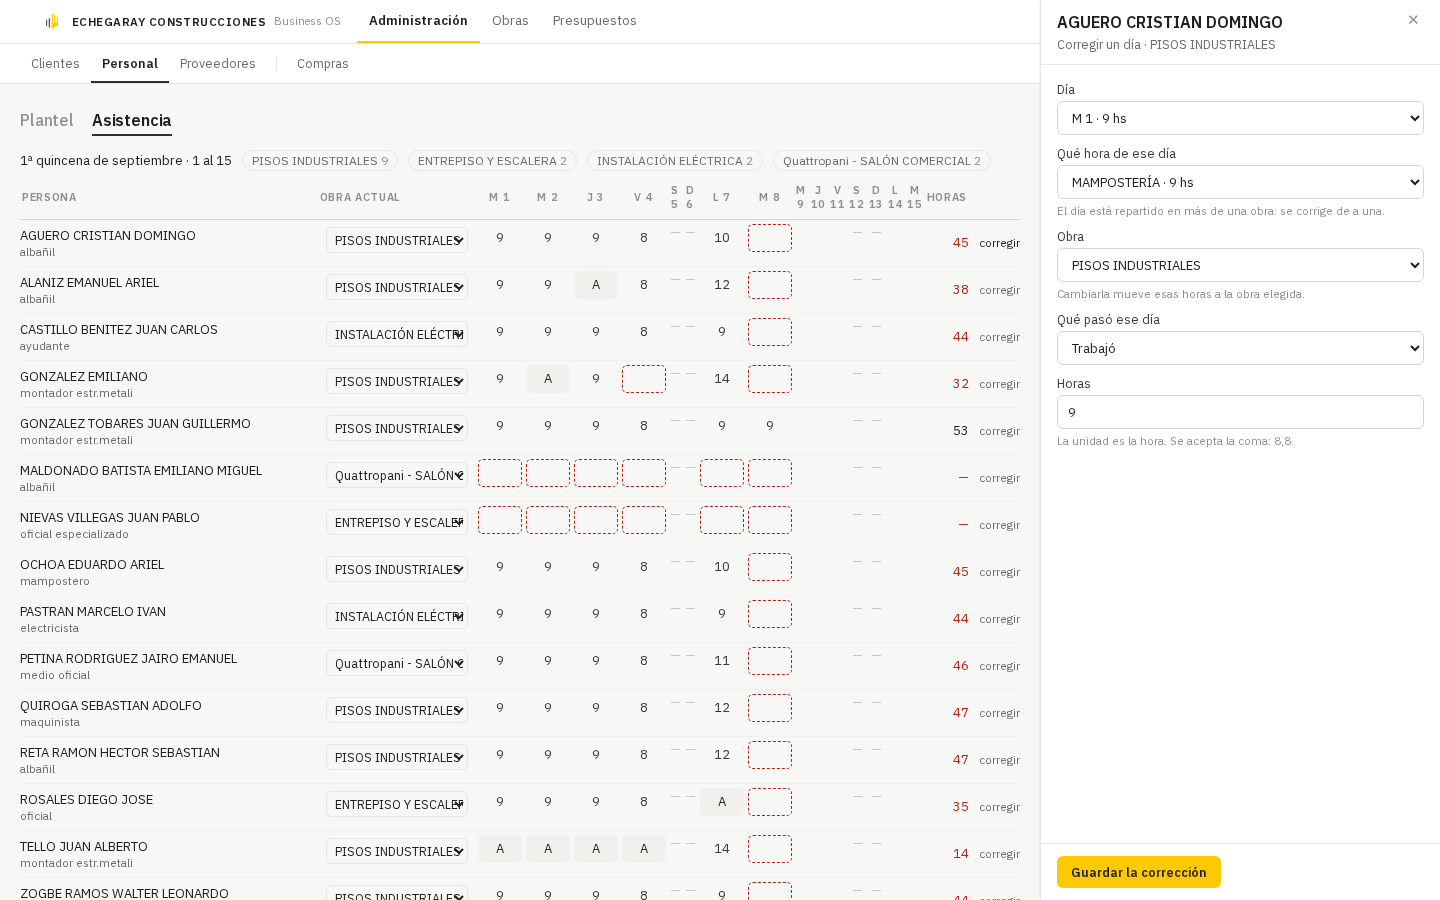
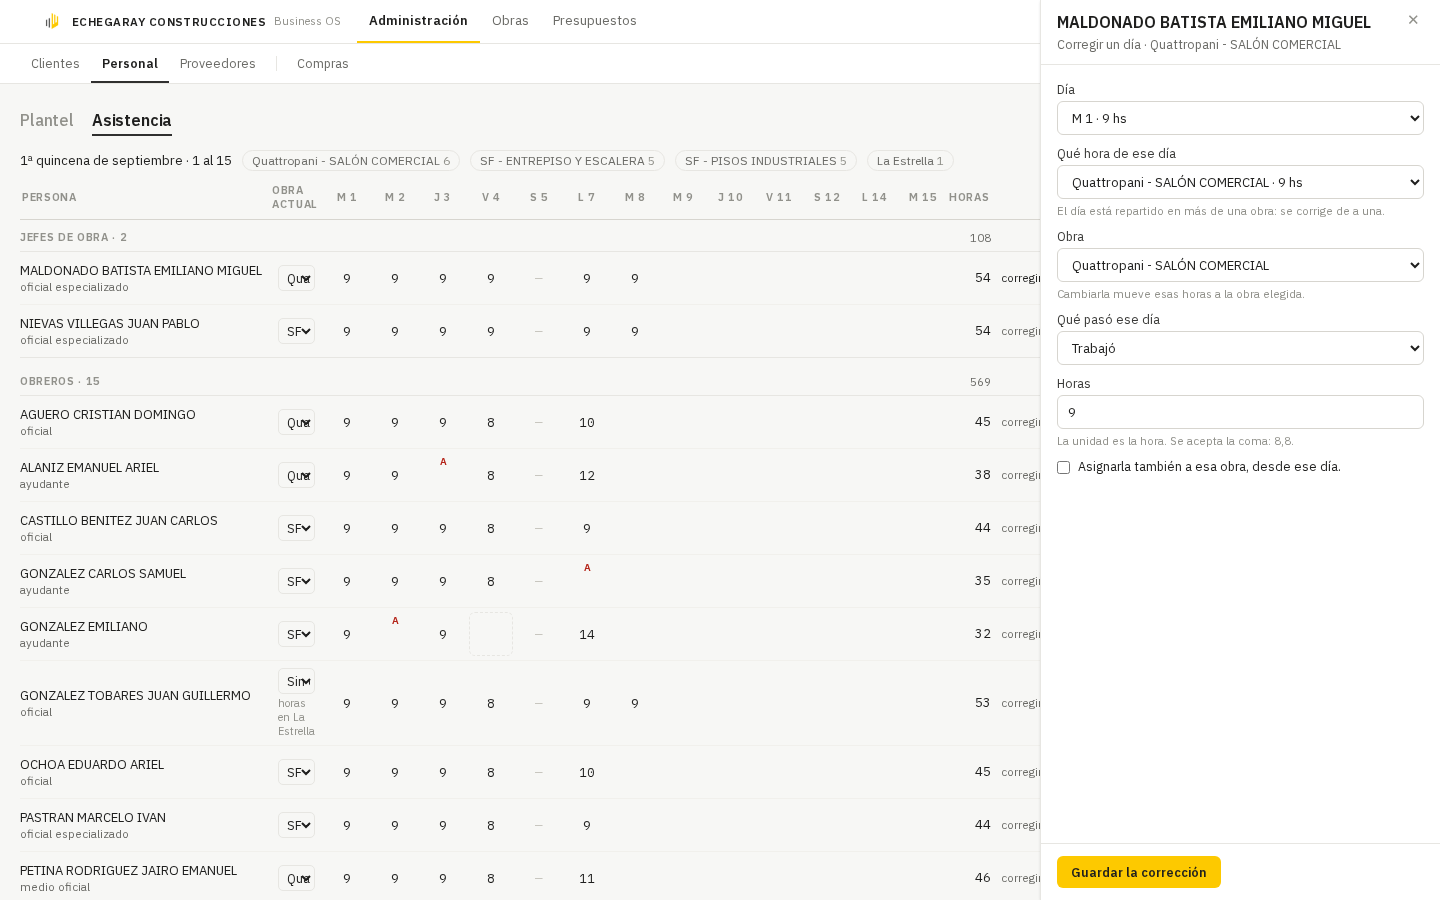
test(asistencia): la medida en el navegador de que la fila se lee en una línea — y el renglón vacío que la torcía
La captura mide lo que el ojo del dueño midió: el centro vertical del `<input>` de horas contra el
del total de su fila, el del desplegable de obra y el del bloque de la persona. Dio 7,5 px de
desvío contra el nombre y encontró un defecto que quedaba: el `<span>` de la nota se dibujaba
aunque la nota fuera `null`, ocupaba su renglón y subía el nombre por encima de sus propias horas.
Ahora sin nota no hay segundo renglón.

Además mide, en 1440 y en 2000: que ningún `total-persona` salga en rojo, que ninguna celda de HOY
lleve `data-sin-cargar`, y que la primera columna de día no arranque a mitad de pantalla (antes
x=1058 con 2000 px de ancho).

`tests/qa-shots/asistencia-grilla-1440.png` y `-2000.png` son las dos capturas. Los PNG de
`qa-shots/` que cambian son los mismos de siempre, re-tomados con el diseño corregido al correr
`_ux-celda-dia` y `asistencia-por-obra` como regresión.

Sólo lectura: los siete tests que escriben asistencia siguen detrás de `E2E_ESCRIBE_ASISTENCIA=1`
y no se corrieron.

diff --git a/echegaray-os/tests/_ux-grilla-asistencia.spec.ts b/echegaray-os/tests/_ux-grilla-asistencia.spec.ts
@@ -1,0 +1,77 @@
+import { test, expect } from '@playwright/test'
+import { entrarComo } from './util/login'
+import { ADMIN } from './util/identidades'
+
+// EL DISEÑO DE LA GRILLA DE QUINCENA, MEDIDO EN EL NAVEGADOR (dueño, 08/09/2026: «está roto el
+// diseño en la sección de asistencia»). Sólo LECTURA: no escribe una celda ni toca la base. El
+// guión bajo del nombre lo deja fuera de la suite de regresión; se corre cuando cambia la grilla.
+//
+// Lo que mide, defecto por defecto:
+//   · el número de horas en el MISMO eje vertical que el total de su fila (antes 7 px más abajo);
+//   · ningún total de persona en rojo (horas = cantidad, sin color de estado);
+//   · ninguna celda de HOY con marco punteado de «sin cargar»;
+//   · la primera columna de día no arranca a mitad de pantalla.
+
+const RUTA = '/administracion/personas?vista=asistencia'
+const ROJO = /rgb\(180, 35, 24\)/
+
+async function abrir(page: import('@playwright/test').Page, w: number, h: number) {
+  await page.setViewportSize({ width: w, height: h })
+  await entrarComo(page, ADMIN.email, ADMIN.password)
+  await page.goto(RUTA)
+  await expect(page.getByTestId('grilla-asistencia')).toBeVisible({ timeout: 30000 })
+}
+
+/** El centro vertical de un elemento. Comparar centros y no bordes: los altos son distintos. */
+const centro = (c: { y: number; height: number } | null) => (c ? c.y + c.height / 2 : NaN)
+
+for (const [ancho, alto] of [[1440, 900], [2000, 1250]] as const) {
+  test(`la grilla en ${ancho}: número, total y «corregir» en la misma línea, y los días cerca del nombre`, async ({ page }) => {
+    await abrir(page, ancho, alto)
+
+    // ── 1 · EL NÚMERO ESTÁ EN EL EJE DE SU FILA ──────────────────────────────
+    const fila = page.getByTestId('fila-quincena').filter({ has: page.getByTestId('celda-hora') }).first()
+    const input = fila.getByTestId('celda-hora').first()
+    const total = fila.getByTestId('total-persona')
+    const desvio = Math.abs(centro(await input.boundingBox()) - centro(await total.boundingBox()))
+    expect(desvio, 'el número de horas y el total de la fila comparten eje vertical').toBeLessThan(3)
+
+    // LA COLUMNA PERSONA SON DOS RENGLONES (nombre y nota) y lo que se centra es el BLOQUE, no
+    // cada línea: se mide su eje, que es lo que el ojo lee como «la fila».
+    const nombre = await fila.getByTestId('link-ficha-persona').boundingBox()
+    const nota = await fila.getByTestId('nota-persona').count()
+      ? await fila.getByTestId('nota-persona').boundingBox()
+      : null
+    const ejePersona = nota ? (nombre!.y + nota.y + nota.height) / 2 : centro(nombre)
+    expect(Math.abs(centro(await input.boundingBox()) - ejePersona),
+      'el número y el bloque de la persona comparten eje vertical').toBeLessThan(3)
+
+    // El desplegable de obra, en el mismo eje que el número que le pertenece.
+    const select = fila.getByTestId('select-obra-actual')
+    if (await select.count()) {
+      expect(Math.abs(centro(await input.boundingBox()) - centro(await select.boundingBox())),
+        'el desplegable de obra y el número comparten eje vertical').toBeLessThan(3)
+    }
+
+    // ── 2 · NINGÚN TOTAL DE PERSONA EN ROJO ──────────────────────────────────
+    for (const t of await page.getByTestId('total-persona').all()) {
+      const color = await t.evaluate((el) => getComputedStyle(el).color)
+      expect(color, 'las horas son una cantidad: nunca llevan el rojo de un problema').not.toMatch(ROJO)
+    }
+
+    // ── 3 · HOY NO SE RECLAMA ────────────────────────────────────────────────
+    // La columna del día en curso salía entera en cajitas punteadas a las 14:52.
+    const hoy = new Date().toISOString().slice(0, 10)
+    const deHoy = page.locator(`[aria-label$="${hoy}"][data-testid="celda-hora"]`)
+    for (const c of await deHoy.all()) {
+      const celda = c.locator('xpath=ancestor::span[@data-testid="celda-dia" or @data-testid="celda-fija"][1]')
+      await expect(celda, 'hoy no lleva el marco punteado de «sin cargar»').not.toHaveAttribute('data-sin-cargar', 'si')
+    }
+
+    // ── 4 · LOS DÍAS EMPIEZAN CERCA DEL NOMBRE ───────────────────────────────
+    const primerDia = await fila.getByTestId('celda-hora').first().boundingBox()
+    expect(primerDia!.x, 'la quincena no puede arrancar a mitad de pantalla').toBeLessThan(640)
+
+    await page.screenshot({ path: `tests/qa-shots/asistencia-grilla-${ancho}.png`, fullPage: false })
+  })
+}

diff --git a/echegaray-os/src/features/administracion/components/GrillaAsistenciaObra.tsx b/echegaray-os/src/features/administracion/components/GrillaAsistenciaObra.tsx
@@ -328,13 +328,18 @@ export function GrillaAsistenciaObra({
                   }}>
                   {fila.persona.nombre}
                 </Link>
-                <span title={fila.persona.nota ?? undefined} style={{
-                  display: 'block', fontSize: '11.5px', color: V.apagado,
-                  maxWidth: ANCHO_PERSONA - 8,
-                  overflow: 'hidden', textOverflow: 'ellipsis', whiteSpace: 'nowrap',
-                }}>
-                  {fila.persona.nota ?? ''}
-                </span>
+                {/* SIN NOTA NO HAY SEGUNDO RENGLÓN. El `<span>` vacío igual ocupaba su línea, y con
+                    la celda centrada eso subía el nombre 7,5 px por encima de sus propias horas:
+                    la fila se seguía leyendo torcida aunque el número ya estuviera en el eje. */}
+                {fila.persona.nota && (
+                  <span data-testid="nota-persona" title={fila.persona.nota} style={{
+                    display: 'block', fontSize: '11.5px', color: V.apagado,
+                    maxWidth: ANCHO_PERSONA - 8,
+                    overflow: 'hidden', textOverflow: 'ellipsis', whiteSpace: 'nowrap',
+                  }}>
+                    {fila.persona.nota}
+                  </span>
+                )}
               </td>
               <td data-testid="celda-obra" style={{
                 padding: '7px 8px', color: V.apagado, verticalAlign: 'middle',
